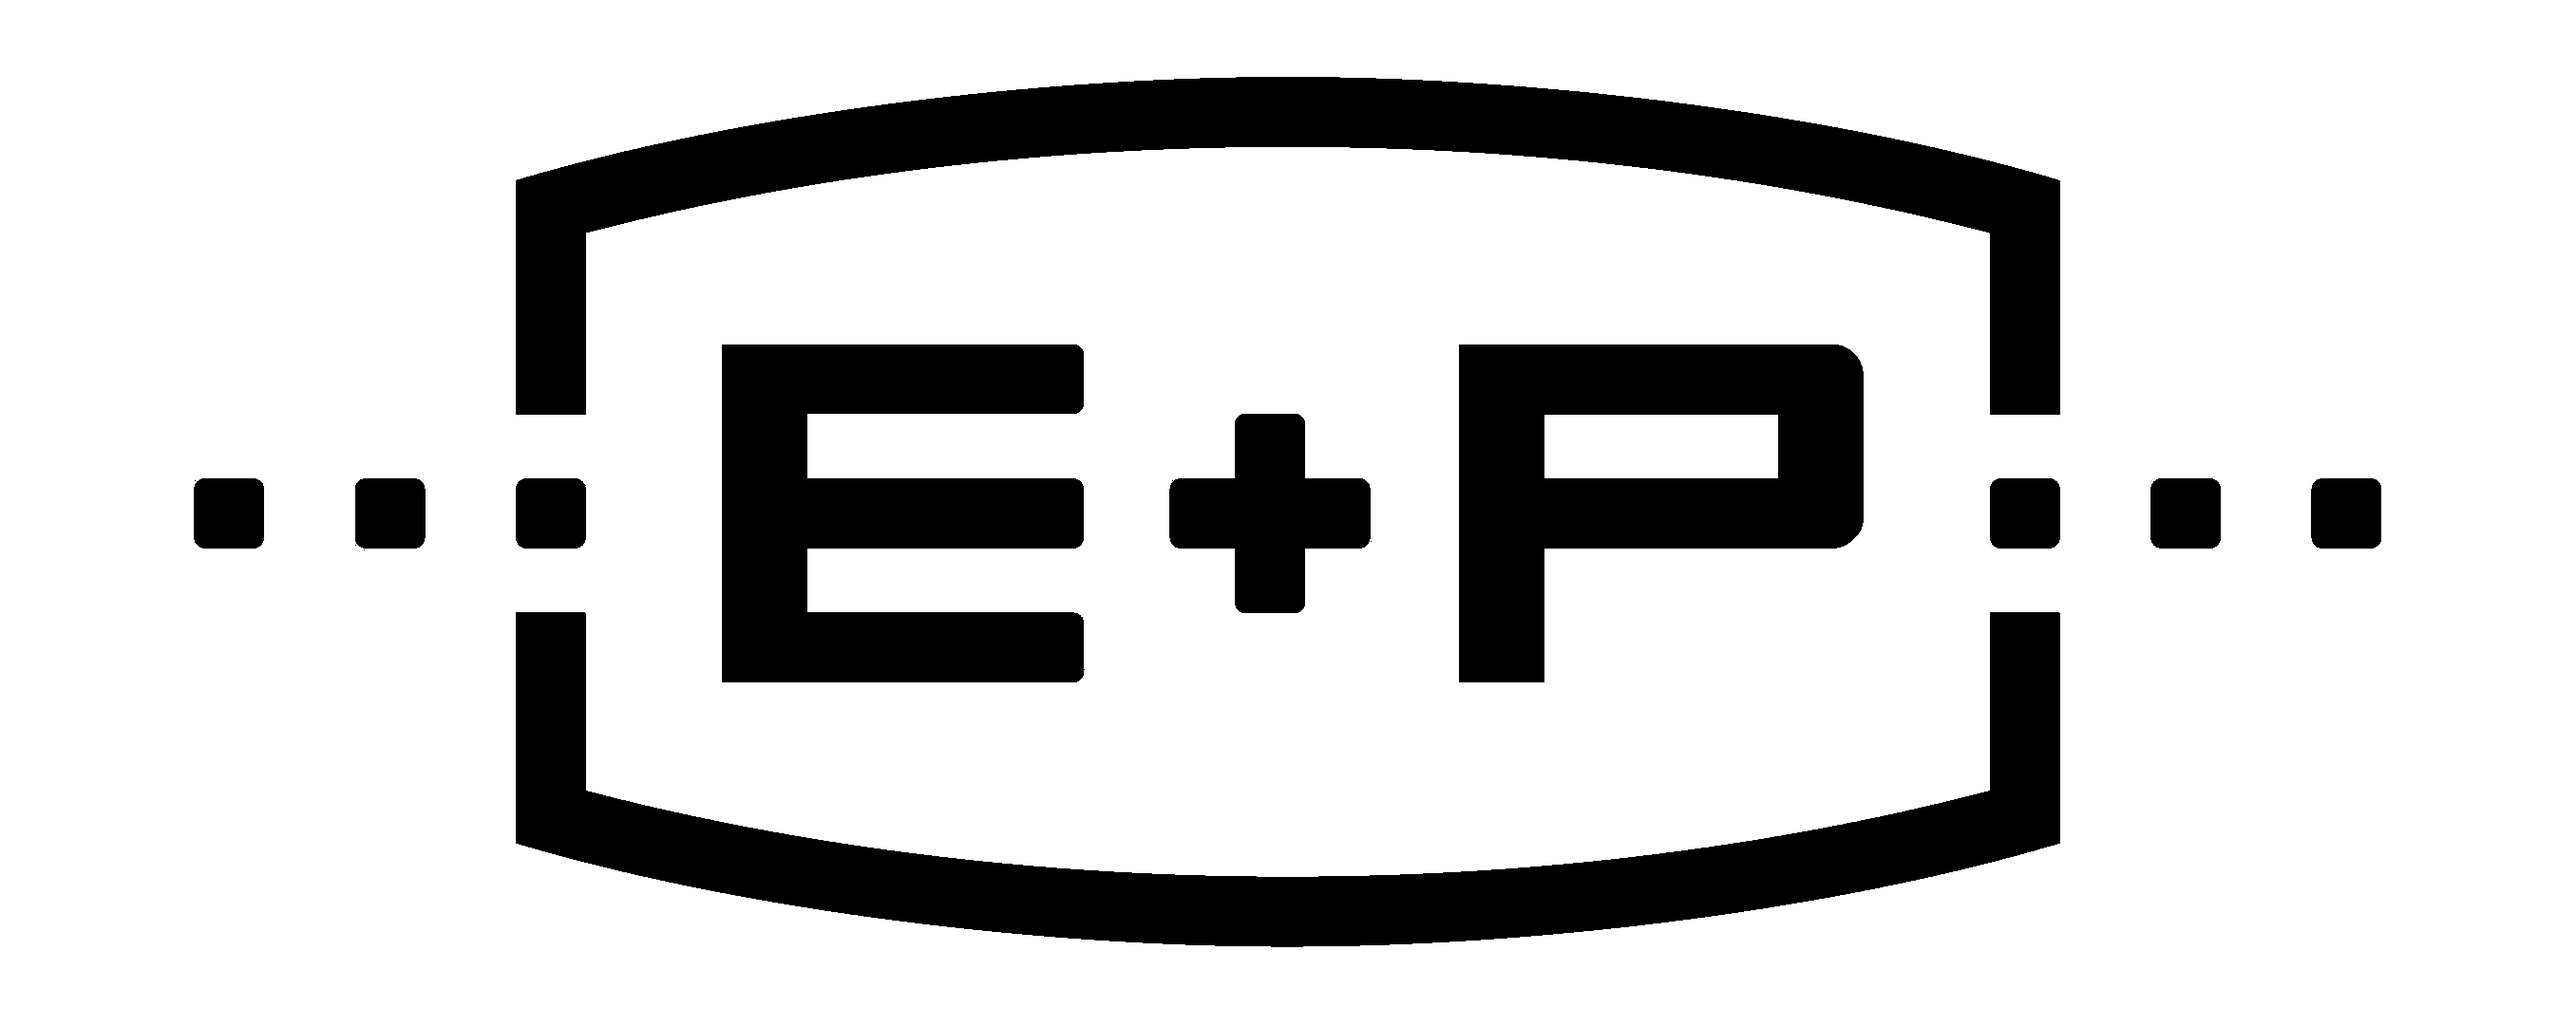
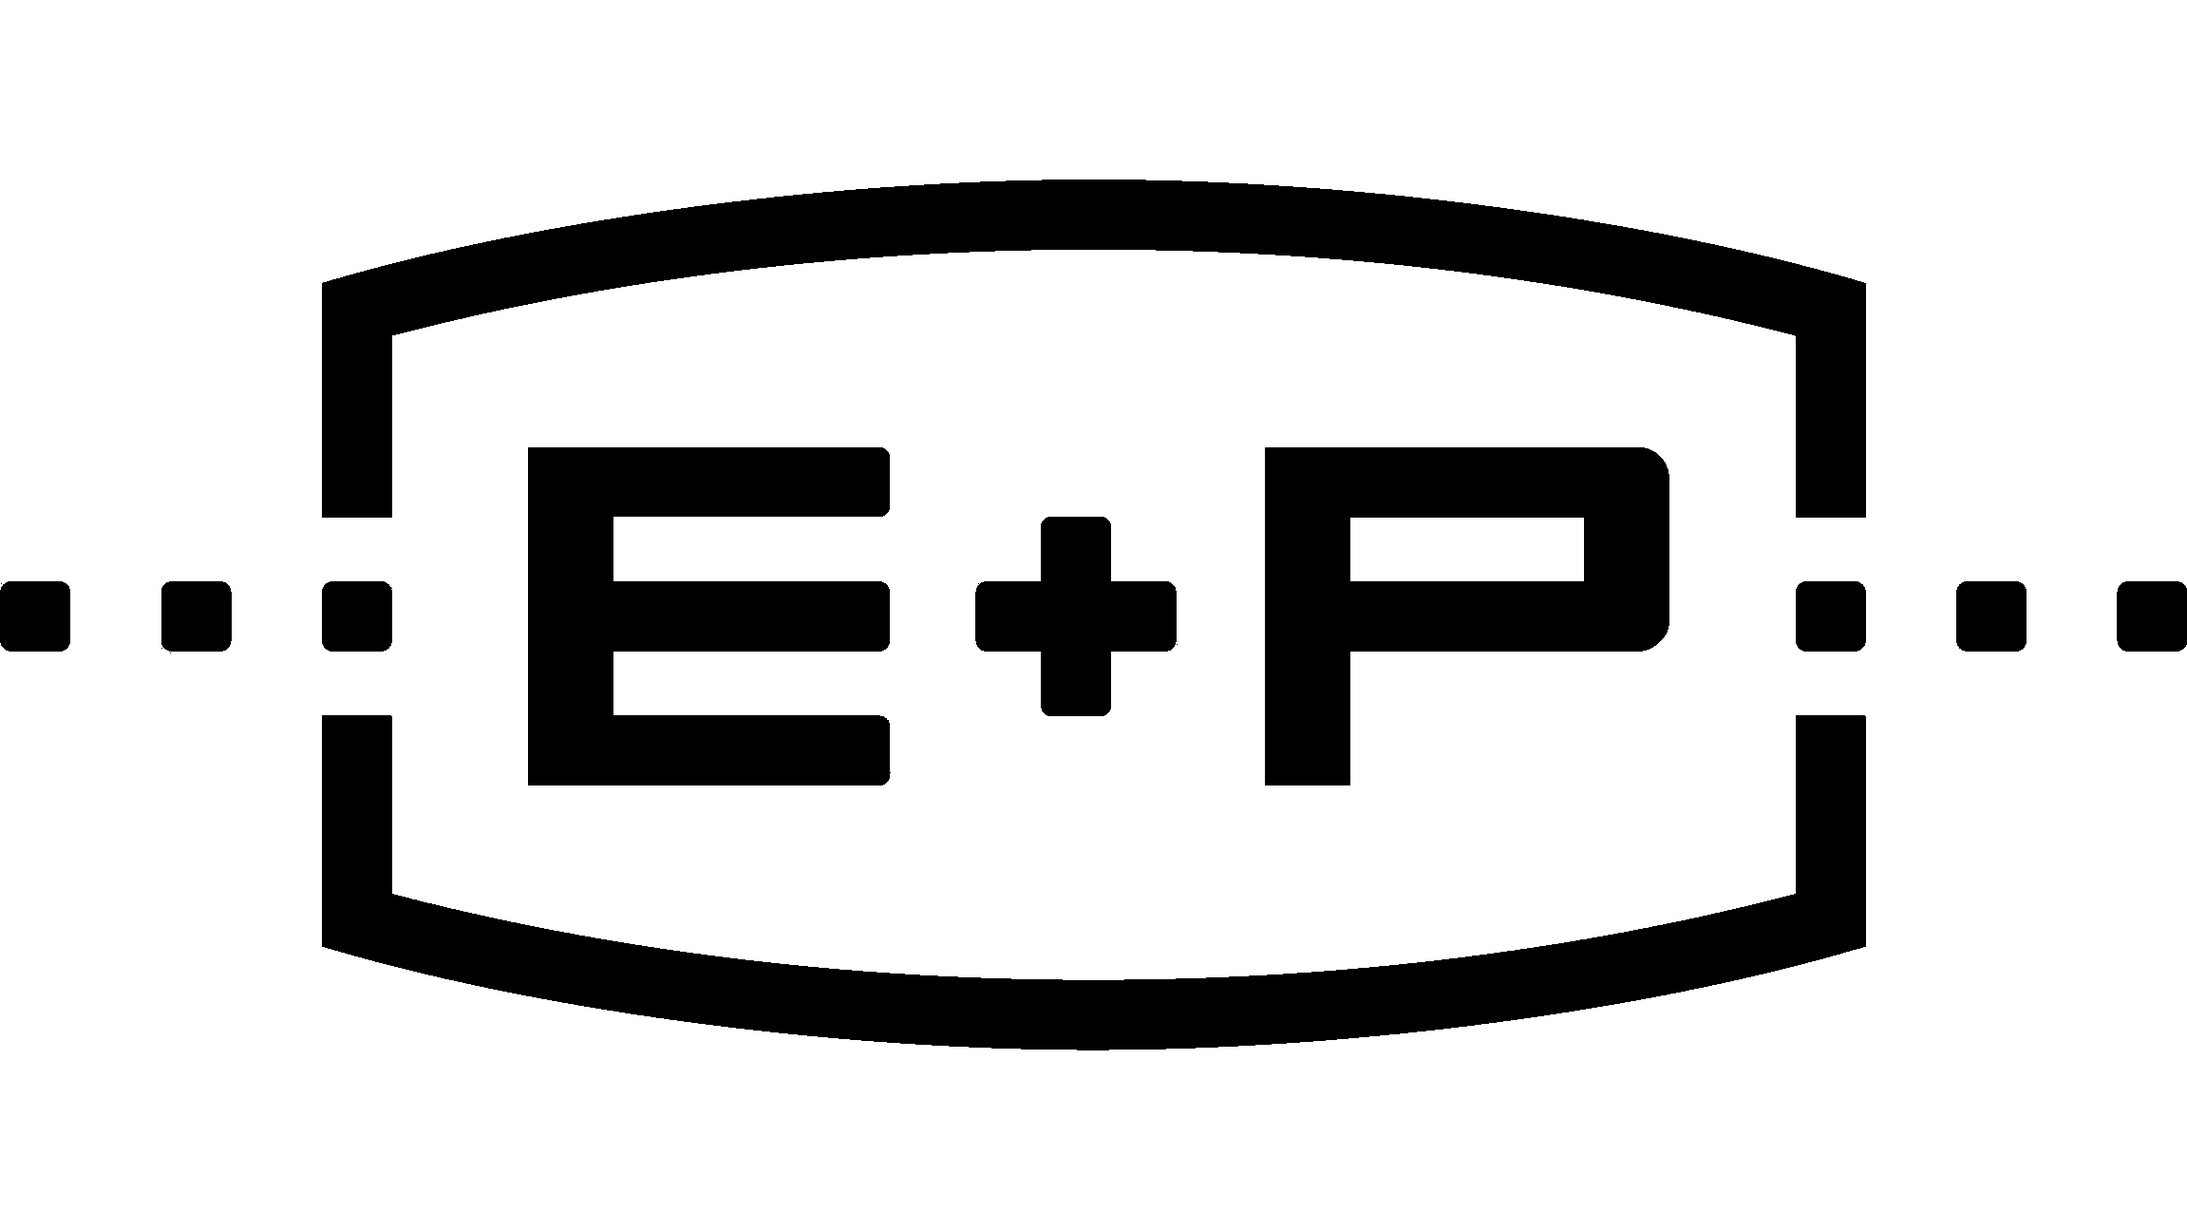
Preset for EUP

diff --git a/js/config.js b/js/config.js
@@ -31,6 +31,13 @@ const defaultConfig = {
 };
 let config = defaultConfig;
 let specials = {
+  eup: {
+    ghostImage: 'E+P',
+    size: 10,
+    chars: 'E+P',
+    randomChars: false,
+    parallax: false
+  },
   mfc: {
     centerText: 'MARC FRIEDRICH CLEMENS',
     centerFont: 'Consolas',
